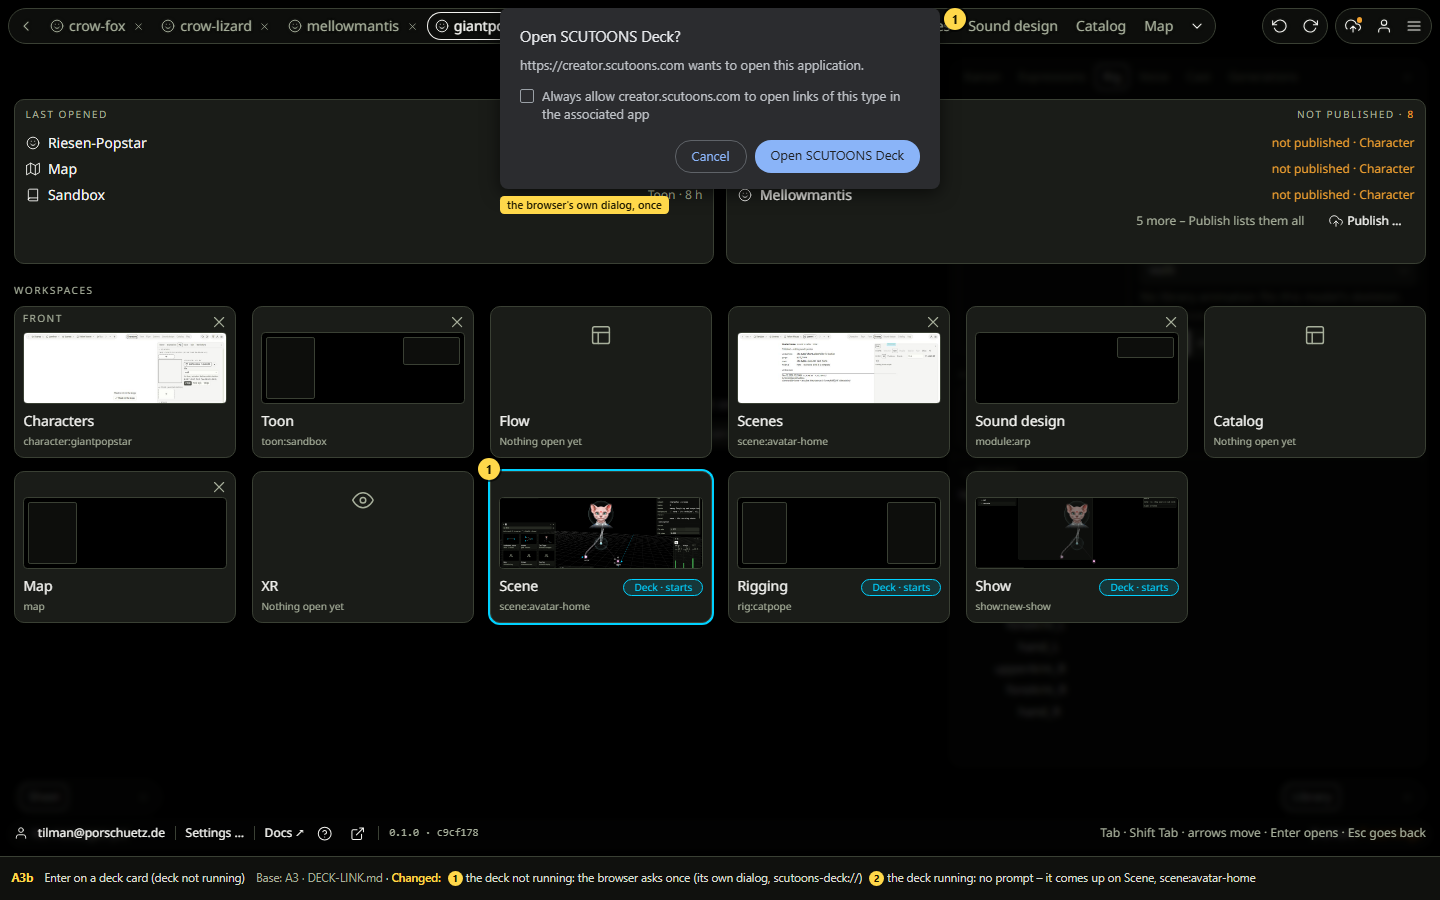
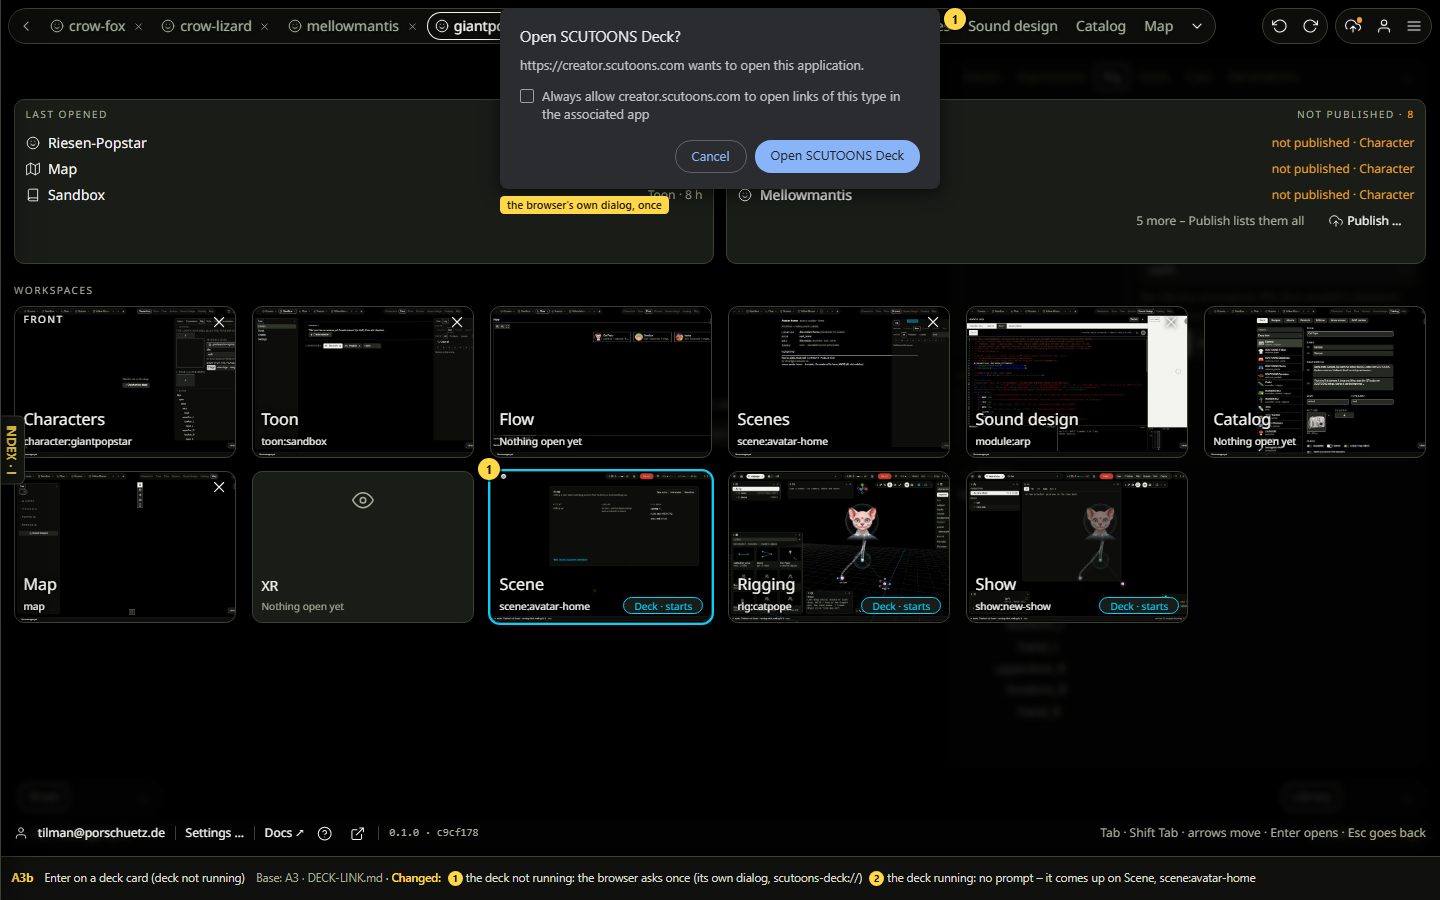
Lap 2 draft: workspace cards are full-bleed real captures (night and day) with the text over them (owner 2026-11-24). Refs #626 #842

Changed region(s): [[0.0, 0.3422, 1.0, 0.6844]]

diff --git a/agents/research/redesign/lap2/draft.html b/agents/research/redesign/lap2/draft.html
@@ -118,6 +118,11 @@ svg.i{width:1rem;height:1rem;stroke:currentColor;fill:none;stroke-width:1.6;stro
 .dcard .ico svg{width:1.6rem;height:1.6rem}
 .dcard .cx{position:absolute;right:.5rem;top:.4rem;color:var(--tool-muted)}
 .dcard .cx svg{width:1.3rem;height:1.3rem}
+/* a workspace card is its last capture, full-bleed; the name and the last content lie over it with the kit's halo (owner 2026-11-24) */
+.dcard.shot{padding:0;overflow:hidden;background-size:cover;background-position:top left}
+.dcard.shot .nm,.dcard.shot .wh,.dcard.shot .label,.dcard.shot .cx{text-shadow:0 0 2px var(--tool-ground),0 0 3px var(--tool-ground),0 0 6px var(--tool-ground);color:var(--tool-text);z-index:1}
+.dcard.shot .cx svg{filter:drop-shadow(0 0 2px var(--tool-ground))}
+.dcard.shot .nm{font-size:var(--editor-title)}
 
 /* annotations (not UI): change markers, question cards, the footer strip, the index */
 .mk{position:absolute;z-index:900;width:22px;height:22px;border-radius:50%;background:#ffd84a;color:#1b1700;font:700 12px/22px system-ui,sans-serif;text-align:center;box-shadow:0 0 0 2px rgb(0 0 0/.55);text-shadow:none}
@@ -244,12 +249,19 @@ function characters(o = {}) {
 }
 
 /* the dashboard as today (now/creator-2): search field, Last opened, Needs review, the workspace cards, the foot */
+/* real captures of each workspace as last left (production 2026-11-24, now/ws-*; the deck's from now/deck-*) – owner: "not schematic, an actual screen capture" */
+const WS_TH = new URLSearchParams(location.search).get('theme') === 'day' ? 'day' : 'night';
+const WS_SHOT = { Characters: `now/ws-characters-${WS_TH}.jpg`, Toon: `now/ws-toon-${WS_TH}.jpg`, Flow: `now/ws-flow-${WS_TH}.jpg`, Scenes: `now/ws-scenes-${WS_TH}.jpg`, 'Sound design': `now/ws-sound-${WS_TH}.jpg`, Catalog: `now/ws-catalog-${WS_TH}.jpg`, Map: `now/ws-map-${WS_TH}.jpg`, Scene: 'now/deck-1-bar-stage.png', Rigging: 'now/deck-3-stage-workspace.png', Show: 'now/deck-3-show-workspace.png' };
 const CARDS = [['Characters','giantpopstar +4','smile','front'],['Toon','Sandbox +1','book','open'],['Flow','Nothing open yet','layout'],['Scenes','Scenes +2','box','open'],['Sound design','Module·arp','cpu','open'],['Catalog','Nothing open yet','layout'],['Map','Map','map','open']];
 function dashboard(o = {}) {
   /* cards: [name, last content, icon, state ('front' | 'open' | ''), badge (kit Chip: where it opens), picture (html)]; no Views row on a card (owner 2026-11-24) */
   const cols = o.cols || 5, x0 = 14, gap = 16, w = Math.floor((1412 - (cols - 1) * gap) / cols);
   const card = ([n, what, icon, st, badge, pic], i) => {
     const r = Math.floor(i / cols), c = i % cols, x = x0 + c * (w + gap), y = (o.top ?? 306) + r * 165, h = 152;
+    const shot = WS_SHOT[n];
+    if (shot) return `<div class="dcard shot ${i === (o.focus ?? 1) ? 'focus' : ''}" style="left:${x}px;top:${y}px;width:${w}px;height:${h}px;background-image:url('${shot}')">${st === 'front' ? '<span class="label" style="position:absolute;left:.6rem;top:.45rem">Front</span>' : ''}${st && !badge ? `<span class="cx">${ic('x')}</span>` : ''}
+      <span class="nm">${n}</span><span class="wh label" style="text-transform:none;letter-spacing:0">${what}</span>
+      ${badge ? `<span class="kc on" style="position:absolute;right:.55rem;bottom:.55rem;z-index:1;background:var(--tool-popover)">${badge}</span>` : ''}</div>`;
     const thumb = pic ? `<span class="abs" style="left:.6rem;right:.6rem;top:1.8rem;height:72px;border-radius:.3rem;overflow:hidden;border:1px solid var(--tool-line);background:var(--tool-ground)">${pic}</span>`
       : o.snap ? o.snap(n, i) : `<span class="ico">${i === 1 ? `<span style="display:inline-flex;gap:.5rem;align-items:center"><span style="width:1.9rem;height:1.9rem;border-radius:.3rem;background:#e7a06a;display:inline-block"></span>${ic('book')}</span>` : ic(icon)}</span>`;
     return `<div class="dcard ${i === (o.focus ?? 1) ? 'focus' : ''}" style="left:${x}px;top:${y}px;width:${w}px;height:${h}px">${st === 'front' ? '<span class="label" style="position:absolute;left:.55rem;top:.35rem">Front</span>' : ''}${thumb}${st && !badge ? `<span class="cx">${ic('x')}</span>` : ''}

diff --git a/agents/research/redesign/lap2/draft-screens.js b/agents/research/redesign/lap2/draft-screens.js
@@ -45,7 +45,7 @@ add('A', 'A2', 'The ☰ menu open', "dashboard foot + front card's Views row (no
   ${qcard(1010, 610, "the deck's Publish in the creator", ["the bar's Publish icon (A1) – the line goes (H1, no duplicates)", 'the menu line as today – no Publish icon in the deck bar'], '', '20rem')}`);
 
 /* one switcher list for both apps (owner 2026-11-24, DECK-LINK.md): the creator's workspaces + the deck's (Scene · Rigging · Show), each with its
-   still (#842 / the deck's library.rs stills – a shot from now/ where there is one, else schematic), its name, its last content; a card of the other app
+   picture: a real capture of the workspace as last left, filling the card, the text over it (#842; owner 2026-11-24), its name, its last content; a card of the other app
    carries a kit Chip saying where it opens. No Views row on any card. */
 const still = (f, pos = 'top left') => `<img src="${f}" style="width:100%;height:100%;object-fit:cover;object-position:${pos}">`;
 const schem = (lay) => lay.map(([x, y, w, h]) => `<span class="abs" style="left:${x * 100}%;top:${y * 100}%;width:${w * 100}%;height:${h * 100}%;border:1px solid var(--tool-line);border-radius:.15rem;background:var(--tool-panel)"></span>`).join('');
@@ -70,7 +70,7 @@ add('A', 'A3', 'The switcher (Alt Tab / Ctrl K / ⌘K)', 'now/creator-2 (dashboa
    "one list: the deck's workspaces too, badged; Enter opens the deck there (A3b)"],
   () => `${characters({ bar: { chevron: true } })}${dashboard({ noSearch: true, cols: 6, cards: SW_CREATOR() })}
   ${mk(1, 20, 62)}${mk(2, 1405, 30)}${mk(3, 200, 412)}${ring(486, 467, 706, 160)}${mk(4, 478, 458)}
-  ${capn(14, 636, 'stills: a shot where now/ has one, else schematic')}
+  ${capn(14, 636, 'cards: real captures (production 2026-11-24, the deck from now/deck-*); XR has none yet')}
   ${qcard(14, 664, "the foot", ['stays as today', 'goes – the ☰ menu holds it (A2)'], '', '17rem')}`);
 
 add('A', 'A3b', 'Enter on a deck card (deck not running)', 'A3 · DECK-LINK.md',
